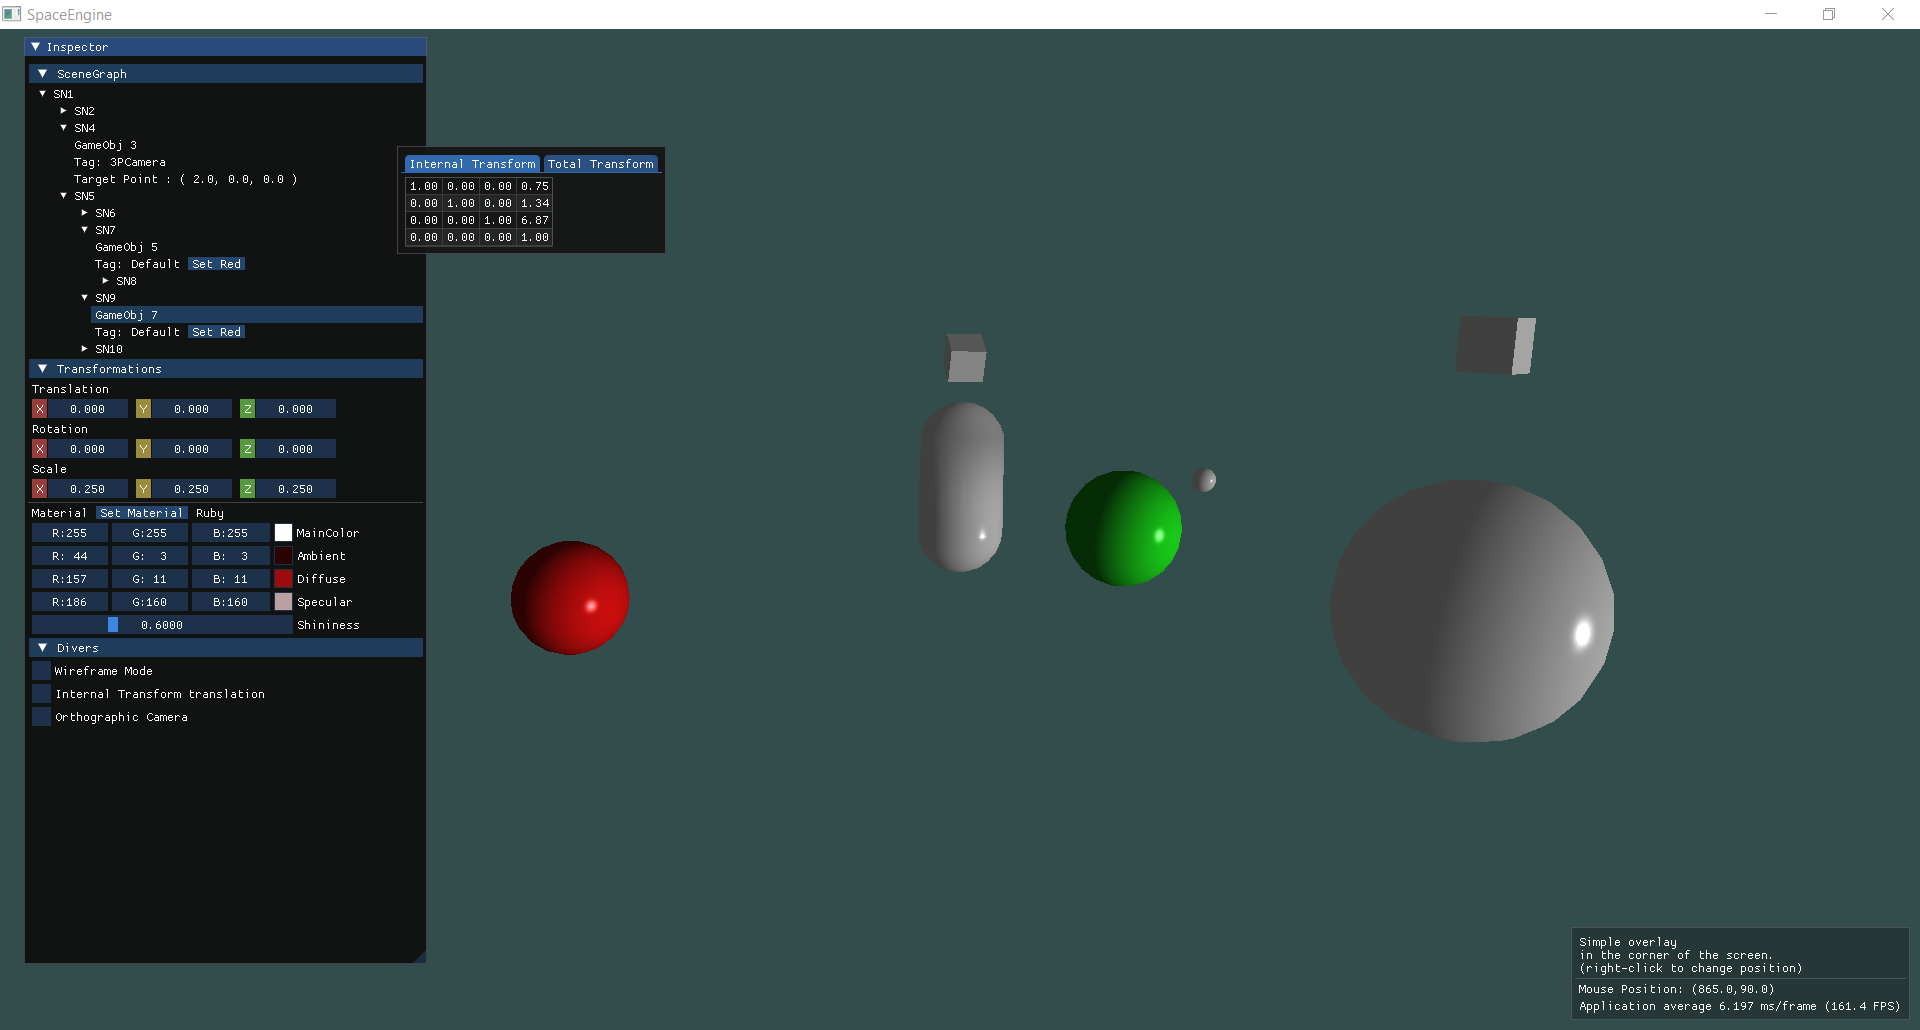
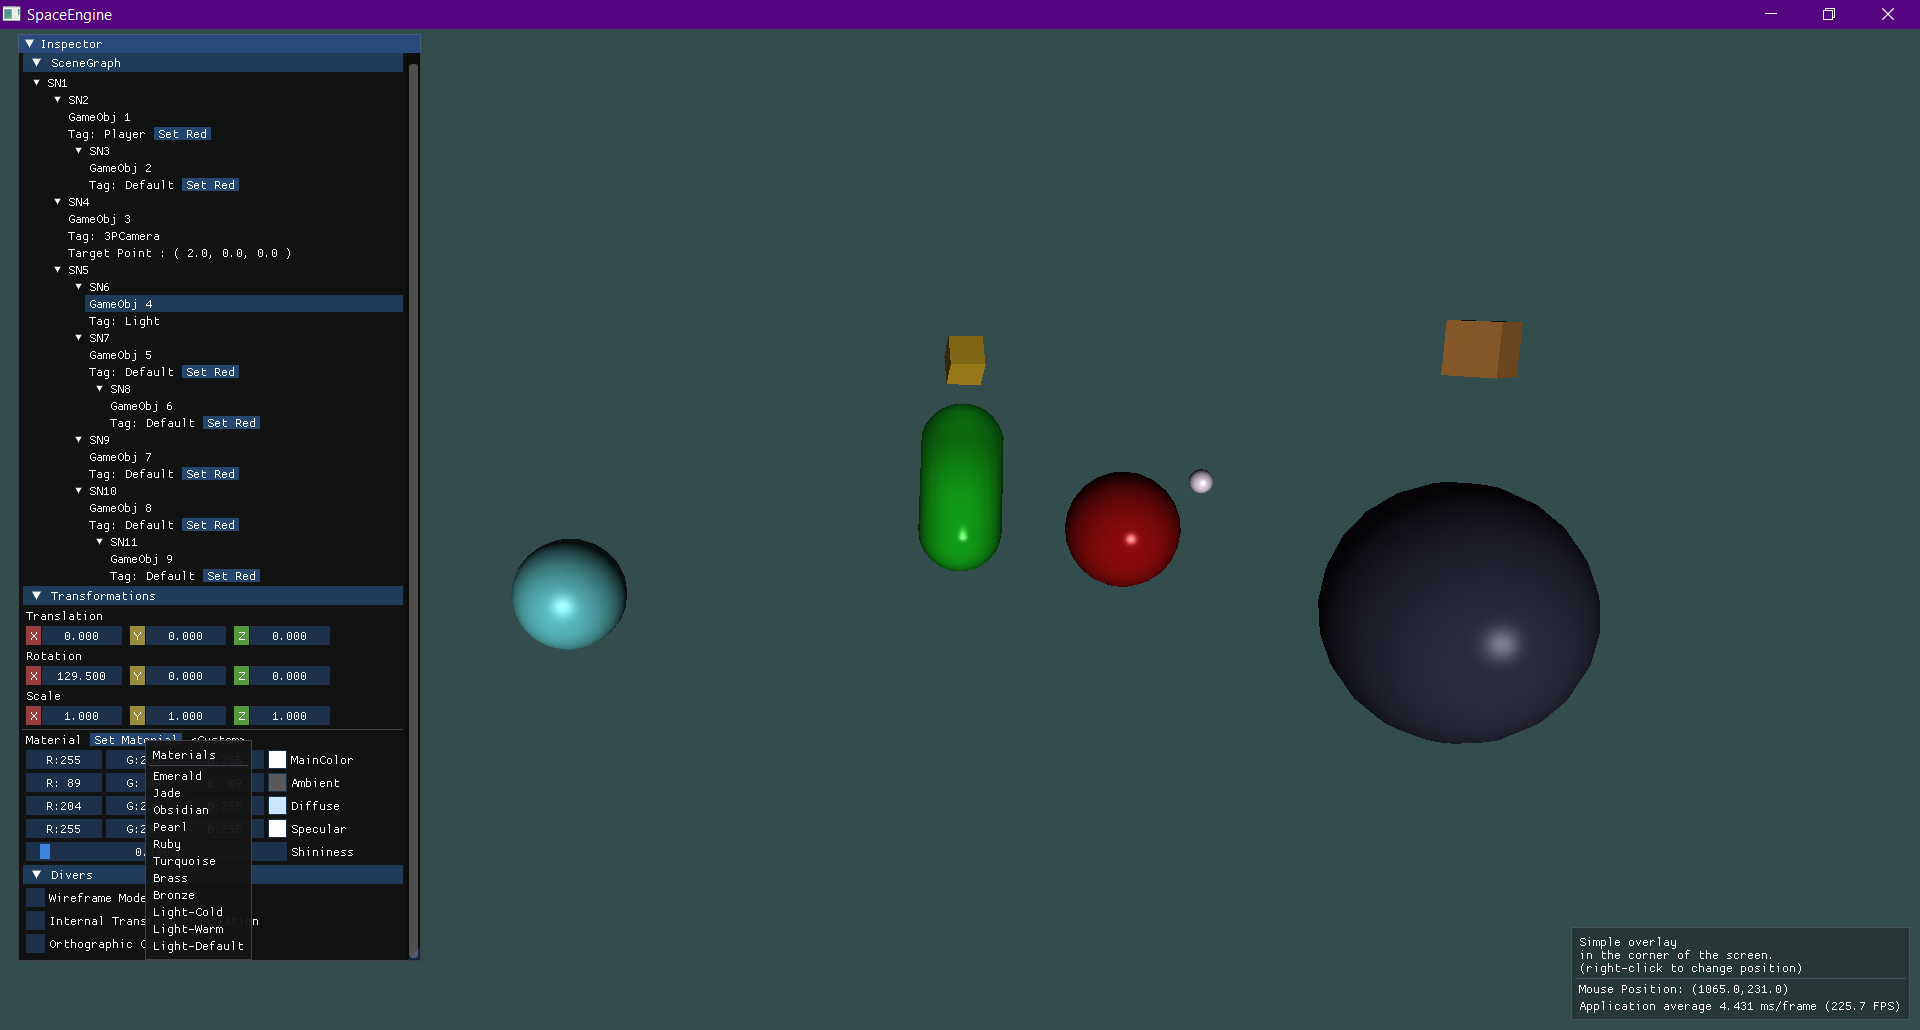
Add Light Default Materials

diff --git a/CustomEngine/src/Game.cpp b/CustomEngine/src/Game.cpp
@@ -639,6 +639,7 @@ void Game::RenderDebugMenu() {
     static bool applyTransform[3] = { false, false, false }; // TRS Modifications have been made
 
     // Material 
+    static Material* objMaterial = nullptr; 
     static bool colorChanged = false;
     static bool matChanged = false;
     // Bronze material 
@@ -660,12 +661,12 @@ void Game::RenderDebugMenu() {
 
     // Graphe de Scene 
     static int selected = -1;
-    GameObject* foundObj = nullptr;
+    BasicGameObject* foundObj = nullptr;
     DisplayUISceneGraph(m_scene, selected);
 
     if (selected != -1) {
         
-        foundObj = static_cast<GameObject*>(m_scene->getObjectbyID(selected));
+        foundObj = m_scene->getObjectbyID(selected);
 
         if (foundObj != nullptr)
         {
@@ -674,17 +675,24 @@ void Game::RenderDebugMenu() {
             transVec3 = objtransfm[1];
             scaleVec3 = objtransfm[2]; 
 
-            if (foundObj)
+            // Light 
+            if (foundObj->isLight())
             {
-                if (foundObj->hasMesh() && foundObj->getMesh()->hasMaterial())
-                {
-                    static Material* mati = foundObj->getMesh()->getMat();
-                    ambient  = mati->m_ambient;
-                    diffuse  = mati->m_diffuse;
-                    specular = mati->m_specular;
-                    shiny    = mati->m_shininess;
-                    selected_material = -1; 
-                }
+                objMaterial = dynamic_cast<LightObject*>(foundObj)->getMaterial();
+                ambient  = objMaterial->m_ambient;
+                diffuse  = objMaterial->m_diffuse;
+                specular = objMaterial->m_specular;
+                shiny    = objMaterial->m_shininess;
+            }
+            // GameObject 
+            else if (foundObj->hasMesh() && foundObj->getMesh()->hasMaterial())
+            {
+                objMaterial = foundObj->getMesh()->getMat();
+                ambient  = objMaterial->m_ambient;
+                diffuse  = objMaterial->m_diffuse;
+                specular = objMaterial->m_specular;
+                shiny    = objMaterial->m_shininess;
+                selected_material = -1; 
             }
         }
     }
@@ -845,7 +853,7 @@ void Game::RenderDebugMenu() {
         {
             ImGui::Text("Materials");
             ImGui::Separator();
-            selected_material = -1; 
+            selected_material = -1;
             for (int i = 0; i < matnames.size(); i++) {
                 if (ImGui::Selectable(matnames[i].c_str())) {
                     selected_material = i;
@@ -863,19 +871,13 @@ void Game::RenderDebugMenu() {
             shiny    = Material::m_defaults[selected_material].m_shininess;
             matChanged = true;
         }
-        else
-        {
-            if (foundObj != nullptr) {
-                Material* mati = foundObj->getMesh()->getMat();
-                ambient = mati->m_ambient;
-                diffuse = mati->m_diffuse;
-                specular = mati->m_specular;
-                shiny = mati->m_shininess;
-            }
-            
-        }
+
 
         // Material Modifications through ui
+        // For Light : 
+        // Ambient : low intensity because we don't want the ambient color to be too dominant
+        // Diffuse : the exact color we'd like a light to have; often a bright white color => temperature
+        // Specular : usually kept at vec3(1.0) shining at full intensity
         colorChanged  = ImGui::ColorEdit3("MainColor", (float*)&suncolor); 
         colorChanged |= ImGui::ColorEdit3("Ambient",  (float*)&ambient); 
         colorChanged |= ImGui::ColorEdit3("Diffuse",  (float*)&diffuse); 
@@ -932,7 +934,12 @@ void Game::RenderDebugMenu() {
         if ((colorChanged || matChanged) && foundObj->hasMesh())
         {
             foundObj->getMesh()->setColor(glm::vec4(suncolor, 1.0f)); 
-            if (foundObj->getMesh()->hasMaterial()) {
+            if (foundObj->isLight())
+            {
+                dynamic_cast<LightObject*>(foundObj)->setMaterial(ambient, diffuse, specular, shiny);
+
+            }
+            else if  (foundObj->getMesh()->hasMaterial()) {
                 foundObj->getMesh()->setMaterial(ambient, diffuse, specular, shiny); 
             }
         }

diff --git a/CustomEngine/src/Engine/Rendering/Renderer.cpp b/CustomEngine/src/Engine/Rendering/Renderer.cpp
@@ -175,21 +175,19 @@ void Renderer::Draw(GameObject* gmo, const glm::vec4& cameraPos, LightObject* lg
 
 	// Light Color 
 	if (lgtobj != nullptr) {
-		glm::vec4 lightcolor = lgtobj->getColor();
-		chosenShader->setUniform4f("u_lightColor", 
-					lightcolor.r, lightcolor.g, 
-					lightcolor.b, lightcolor.a);
-		glm::vec4 lightpos = lgtobj->getWorldPosition();
-		chosenShader->setUniform4f("u_lightPos", 
-			lightpos.x, lightpos.y,
-			lightpos.z, lightpos.w);
+		chosenShader->setUniform4f("u_light.color", lgtobj->getColor());
+		chosenShader->setUniform4f("u_light.position", lgtobj->getWorldPosition());
+
+		//  Light Material 
+		Material* lightmat = lgtobj->getMaterial(); 
+		chosenShader->setUniform4f("u_light.ambient", glm::vec4(lightmat->m_ambient, 1.0f));
+		chosenShader->setUniform4f("u_light.diffuse", glm::vec4(lightmat->m_diffuse, 1.0f));
+		chosenShader->setUniform4f("u_light.specular",glm::vec4(lightmat->m_specular, 1.0f));
 	} 
 	else
 	{
-		chosenShader->setUniform4f("u_lightColor", 
-									1.0f, 1.0f, 1.0f, 1.0f);
-		chosenShader->setUniform4f("u_lightPos", 
-									0.0f, 0.0f, 0.0f, 1.0f);
+		chosenShader->setUniform4f("u_lightColor", glm::vec4(1.0f)); 
+		chosenShader->setUniform4f("u_lightPos", 0.0f, 0.0f, 0.0f, 1.0f);
 	}
 
 	// Camera Position for the view 
@@ -278,11 +276,18 @@ void Renderer::Draw(LightObject* lgtobj, Material* mat, int shadertype) const
 
 	// Texture 
 	bool texturebind = false;
-	if (mat != nullptr)
+	if (lgtobj->getMaterial() != nullptr)
 	{
-		if (mat->getTexture() != nullptr)
+		//  Light Material 
+		Material* lightmat = lgtobj->getMaterial();
+		/*chosenShader->setUniform4f("u_light.ambient", glm::vec4(lightmat->m_ambient, 1.0f));
+		chosenShader->setUniform4f("u_light.diffuse", glm::vec4(lightmat->m_diffuse, 1.0f));
+		chosenShader->setUniform4f("u_light.specular", glm::vec4(lightmat->m_specular, 1.0f));*/
+		
+		
+		if (lgtobj->getMaterial()->getTexture() != nullptr)
 		{
-			mat->getTexture()->bind(0);
+			lgtobj->getMaterial()->getTexture()->bind(0);
 			texturebind = true;
 		}
 	}

diff --git a/CustomEngine/src/Engine/Rendering/Material.cpp b/CustomEngine/src/Engine/Rendering/Material.cpp
@@ -98,6 +98,46 @@ void Material::initDefaultMaterials()
 
 	m_defaultnames.push_back("Bronze");
 
+	// For Light (explanations from learnopengl.com)
+	// ----------
+	// Ambient : low intensity because we don't want the ambient color to be too dominant
+	// Diffuse : the exact color we'd like a light to have; often a bright white color => here our light temperature K
+	// Specular : usually kept at vec3(1.0) shining at full intensity
+	glm::vec3 mainLightcolor{ 0.8f, 0.9f, 1.0f }; 
+	m_defaults.emplace_back(
+		mainLightcolor,
+		glm::vec3(0.35f),
+		mainLightcolor,
+		glm::vec3(1.0f),
+		0.1f // NA
+	);
+
+	m_defaultnames.push_back("Light-Cold");
+
+	mainLightcolor = glm::vec3(1.0f, 0.8f, 0.8f); 
+	m_defaults.emplace_back(
+		mainLightcolor,
+		glm::vec3(0.35f),
+		mainLightcolor,
+		glm::vec3(1.0f),
+		0.1f // NA
+	);
+
+	m_defaultnames.push_back("Light-Warm");
+
+	mainLightcolor = glm::vec3(1.0f);
+	m_defaults.emplace_back(
+		mainLightcolor,
+		mainLightcolor,
+		mainLightcolor,
+		mainLightcolor,
+		0.1f // NA
+	);
+
+	m_defaultnames.push_back("Light-Default");
+
+
+
 
 }
 
@@ -115,7 +155,14 @@ Material::Material()
 	m_shininess(0.6f)
 {};
 
-
+/// <summary>
+/// Constructor
+/// </summary>
+/// <param name="color"></param>
+/// <param name="ambient"></param>
+/// <param name="diffuse"></param>
+/// <param name="specular"></param>
+/// <param name="shininess"></param>
 Material::Material(const glm::vec3& color,
 	const glm::vec3& ambient,
 	const glm::vec3& diffuse,

diff --git a/CustomEngine/src/Engine/Light/LightObject.cpp b/CustomEngine/src/Engine/Light/LightObject.cpp
@@ -8,11 +8,13 @@ LightObject::LightObject(SceneNode* parent, glm::vec3 center,
     : BasicGameObject(parent, center, tag),
     m_mesh(nullptr),
     m_ntexture(textureId),
-    m_filename(filename), m_mat(nullptr)
+    m_filename(filename)
 {
     // by default init a cube 
     initMesh(textureId); 
     m_mesh->setColor(1.0f, 1.0f, 1.0f, 1.0f); 
+
+    m_mat = new Material(Material::m_defaults[10]); 
 
 }
 
@@ -117,6 +119,22 @@ void LightObject::initMesh(const char* filename)
 void LightObject::initMaterial(Texture* texture, const glm::vec3& color)
 {
     m_mat = new Material(texture, color);
+}
+
+void LightObject::setMaterial(const glm::vec3& amb, const glm::vec3& diff, const glm::vec3& spec, const float& shininess)
+{
+    if (m_mat == nullptr)
+    {
+        m_mat = new Material(this->getColor(), amb, diff, spec, shininess);
+    }
+    else
+    {
+        m_mat->setColor(this->getColor()); // Set Mesh Color 
+        m_mat->m_ambient = amb;
+        m_mat->m_diffuse = diff;
+        m_mat->m_specular = spec;
+        m_mat->setShininess(shininess);
+    }
 }
 
 void LightObject::Update(float deltatime)

diff --git a/CustomEngine/src/Engine/Light/LightObject.h b/CustomEngine/src/Engine/Light/LightObject.h
@@ -17,8 +17,6 @@ class SceneNode;
 class LightObject : public BasicGameObject
 {
 private:
-
-
     // Mesh
     Mesh* m_mesh;
     Material* m_mat;
@@ -40,7 +38,7 @@ public:
     // Print game object informations
     void print() override;
     bool hasMesh() override { return true; }
-    bool hasMaterial() const { return m_mat != nullptr; }
+    virtual bool hasMaterial() const { return m_mat != nullptr; }
     virtual bool isLight() override { return true; }
 
     // Mesh
@@ -56,6 +54,10 @@ public:
     // Rendering
     Mesh* getMesh() const override { return m_mesh; }
     Material* getMaterial() const { return m_mat; }
+    void setMaterial(const glm::vec3& amb, 
+                    const glm::vec3& diff,
+                    const glm::vec3& spec, 
+                    const float& shininess);
 
 
     // Update 
